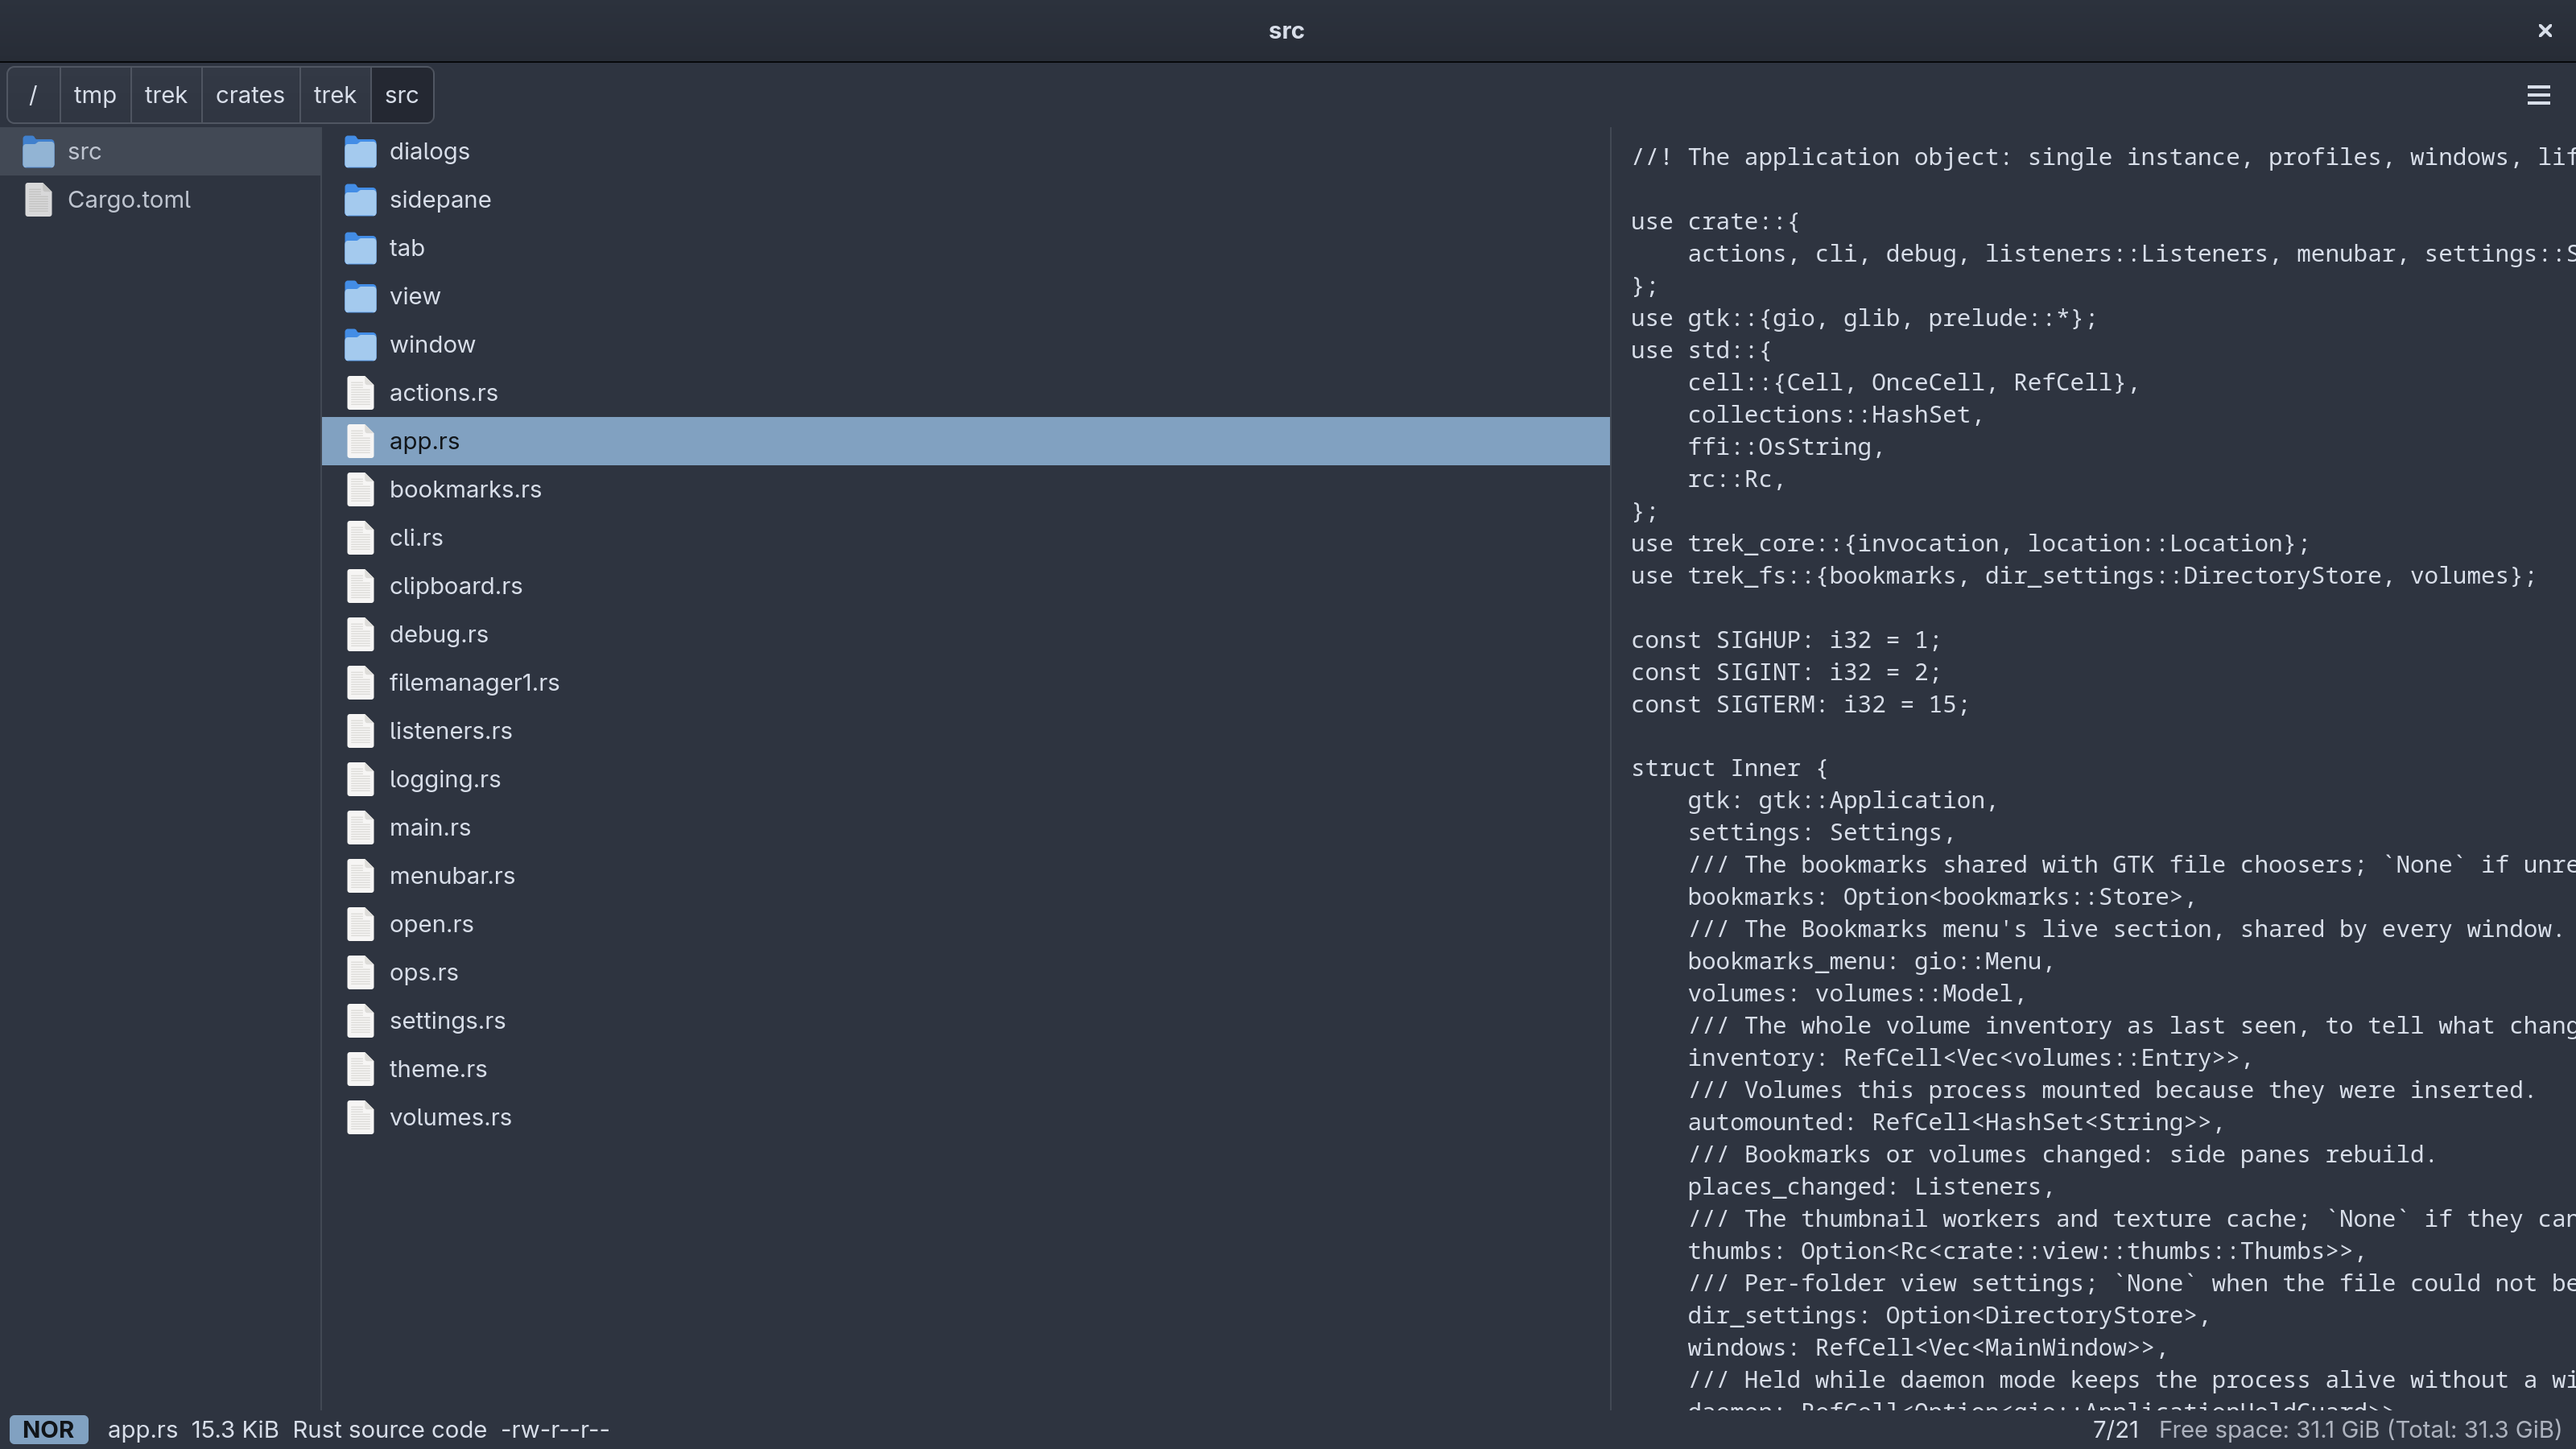
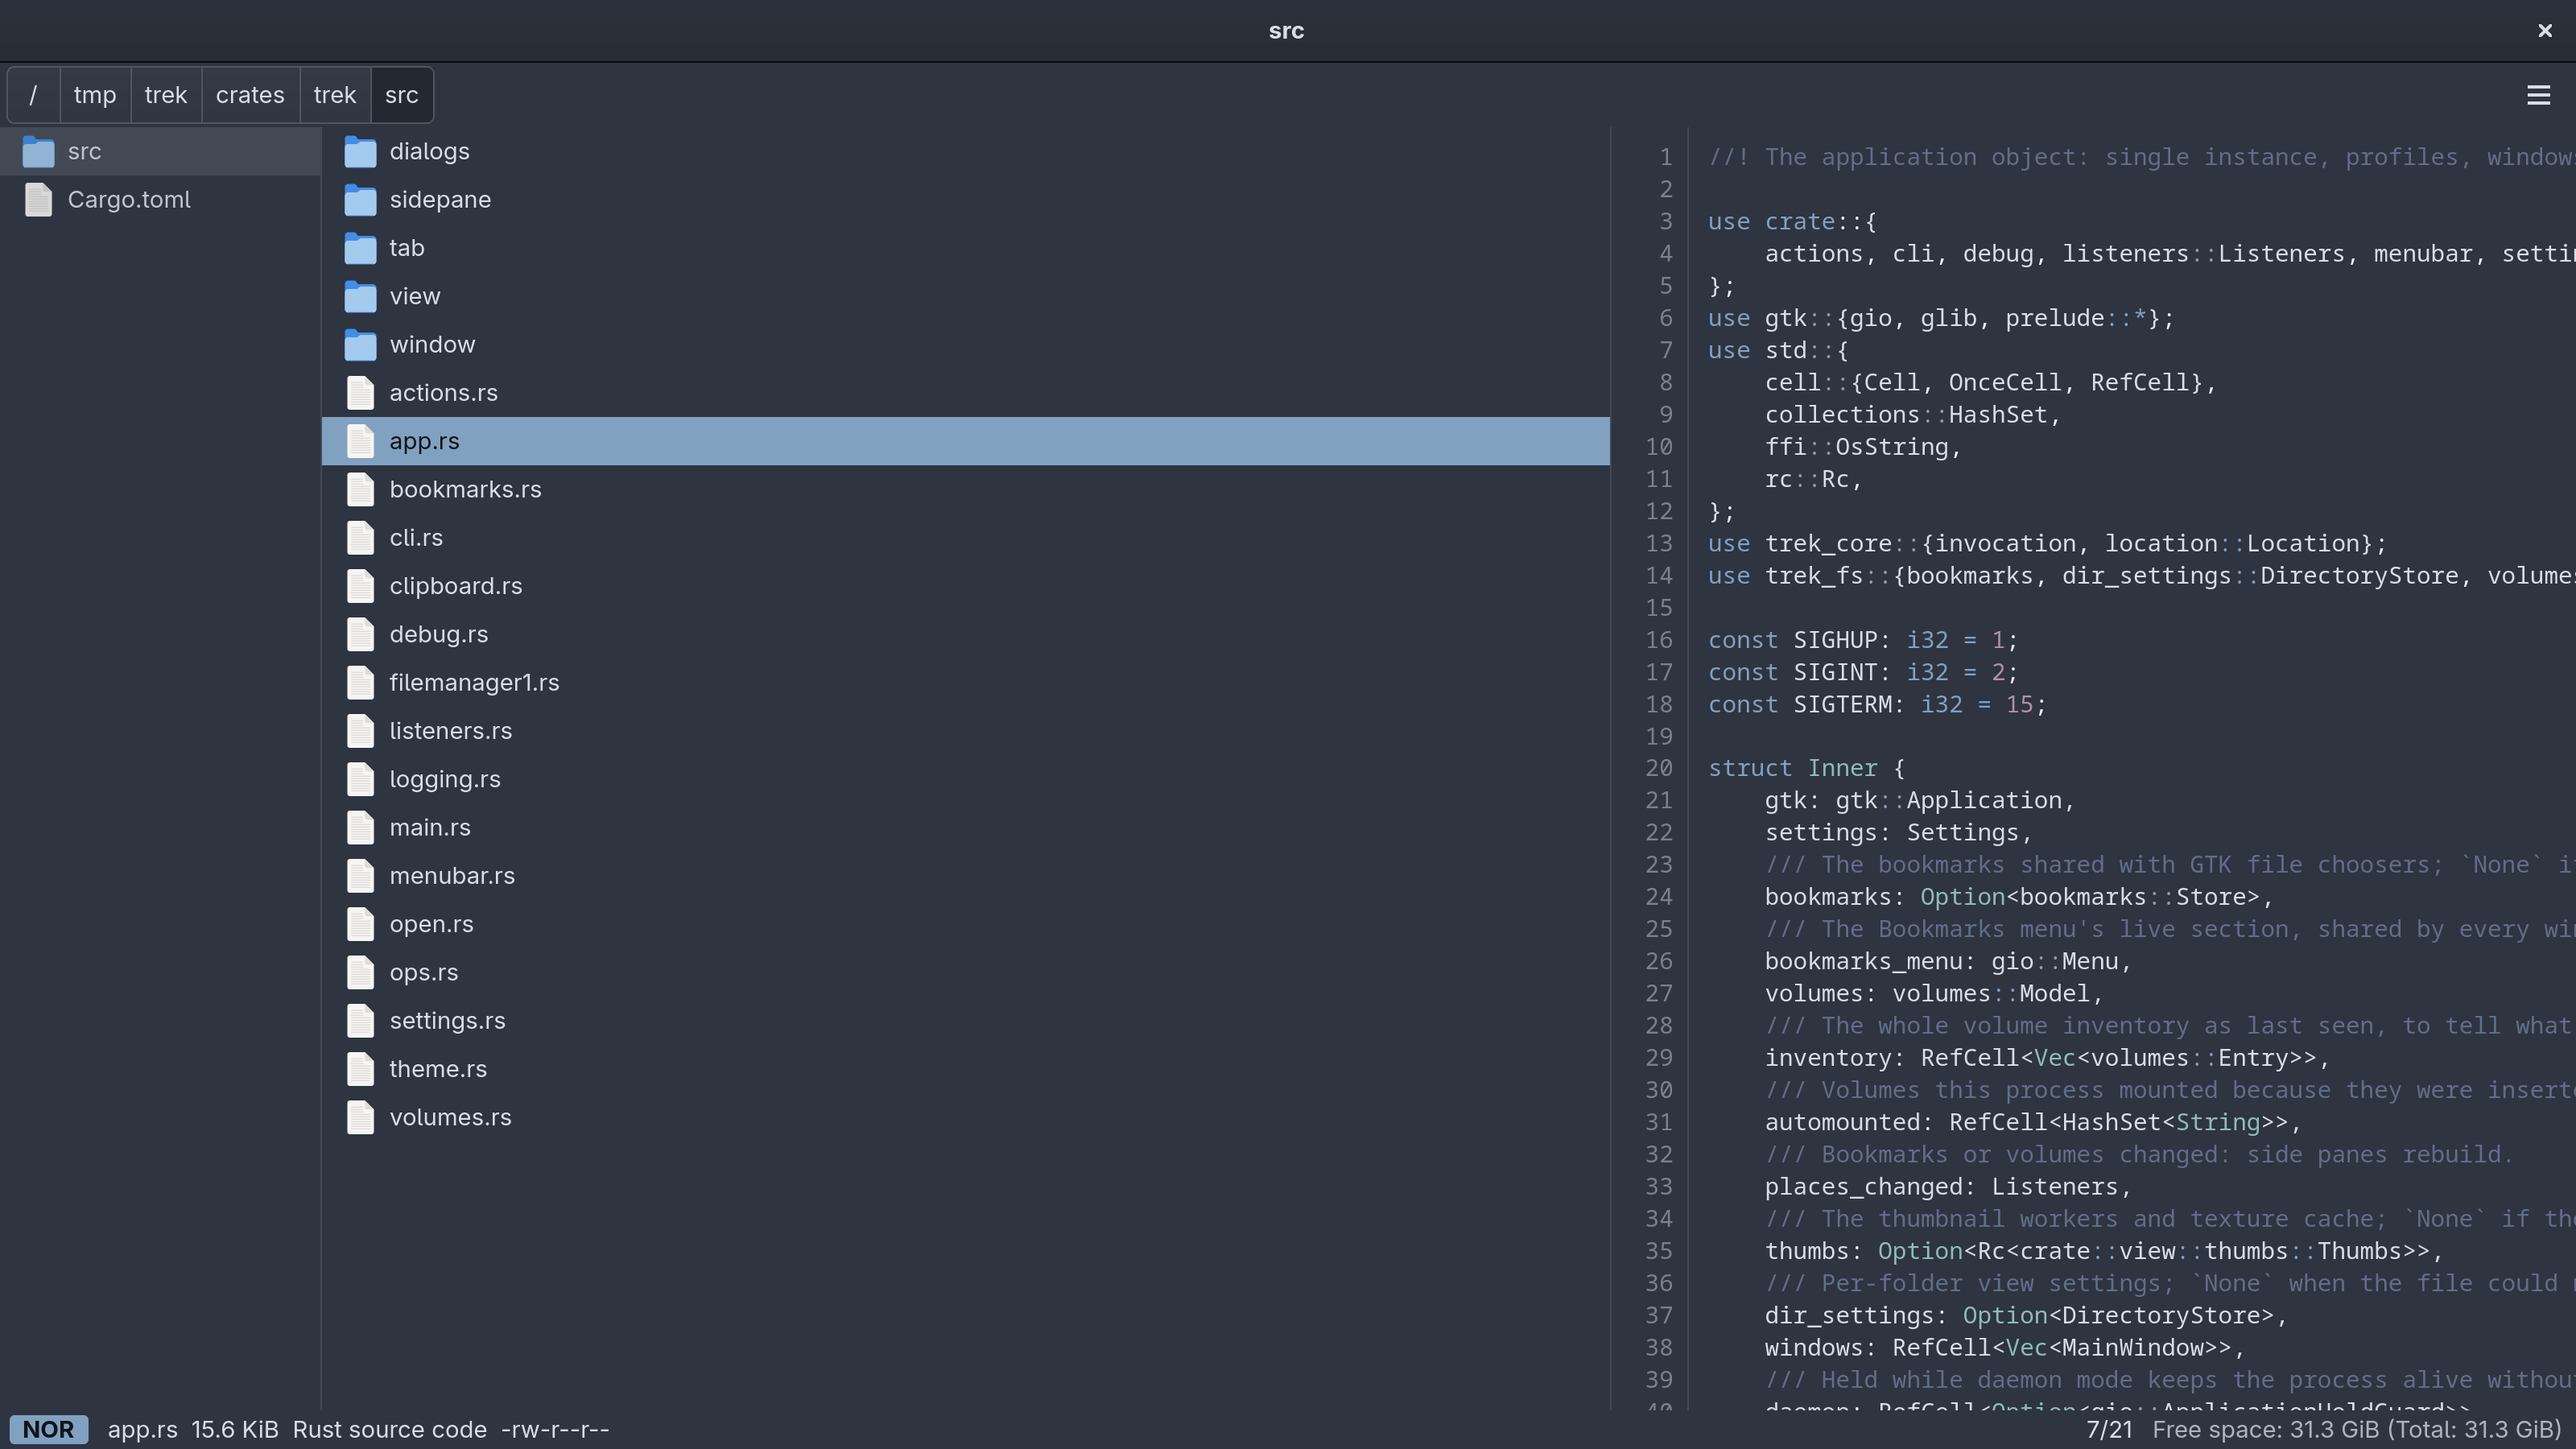
Show the highlighted preview in the README
The screenshot is retaken the same way as before (trek on its own
source at 2× scale, NordArc, Adwaita Mono, cursor on app.rs), so the
preview now shows line numbers and Nord highlighting. Highlighting gets
its own line in the feature list.

diff --git a/README.md b/README.md
@@ -2,12 +2,13 @@
 
 **Elevator pitch:** A graphical file manager for Linux, in Rust and GTK 4, driven from the keyboard with vim motions — parent folder, files and preview side by side, `h` `j` `k` `l` to move, `y` `x` `p` to yank, cut and paste, `z` to fuzzy-find — while the mouse, drag and drop, menus, trash can, volumes and remote places all still work.
 
-![trek: parent folder, files and a preview of the file under the cursor](assets/screenshot.png)
+![trek: parent folder, files and a syntax-highlighted, line-numbered preview of the file under the cursor](assets/screenshot.png)
 
 ## Features
 
 - **Vim motions.** 117 bindings — `h` `j` `k` `l`, `gg` `G`, `Ctrl+U` `Ctrl+D`, `v` for visual mode, `y` `x` `p` to yank, cut and paste, `/` `n` `N` to find, and `g`, `m`, `c` and `,` to start a sequence — each with a description; `~` or `F1` lists them, and a started sequence lists its continuations at the bottom of the window.
-- **Three columns.** Parent folder, files and a preview that lists a folder, shows the start of a text file with line numbers and bat's syntax highlighting, draws an image, and gives anything else a card with its type, size, date and permissions.
+- **Three columns.** Parent folder, files and a preview that lists a folder, shows the start of a text file, draws an image, and gives anything else a card with its type, size, date and permissions.
+- **Code in the preview.** Text files are shown with line numbers and syntax highlighting, as bat shows them — bat's own grammars (Rust, TypeScript, TOML, Dockerfile, shell scripts by their `#!` line, and the rest) in the Nord theme, or a light theme on a light background.
 - **Fuzzy finder.** `z` lists everything below the folder and matches as you type with fzf's query syntax, on all cores, honouring `.gitignore`. No fzf needed.
 - **Fast folders.** A folder is listed on a thread of its own, read once, and handed between columns as you move; a tab keeps the last dozen folders it showed, still watched for changes.
 - **Drives and media.** A USB stick is mounted when you plug it in, as in PCManFM, and asked about with the same "Removable medium is inserted" dialog. Its name appears as a button in the toolbar, lit until you look; `g m` lists every drive with its mount point — `Enter` opens one, `e` ejects it — and the status line says when something is connected, mounted, unmounted or safe to unplug.
